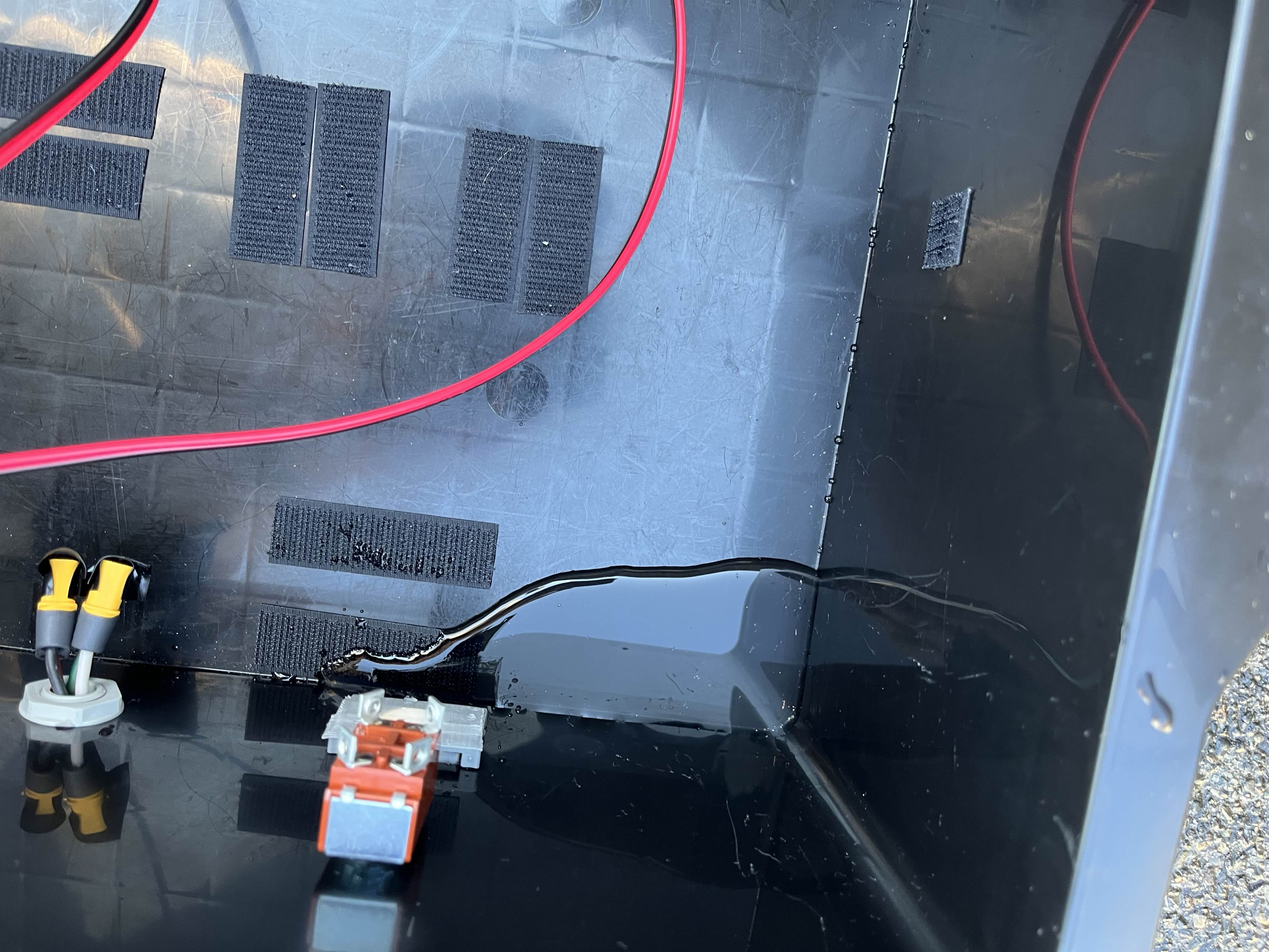
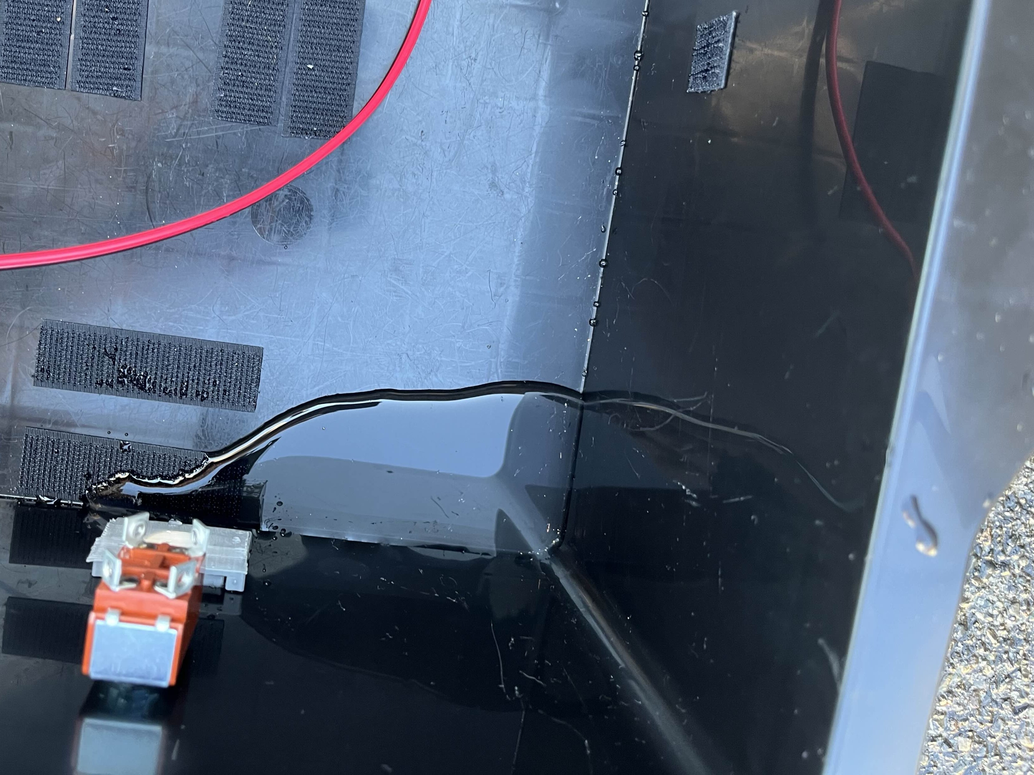
残り：図番号修正、追加実験について

diff --git a/index.html b/index.html
@@ -35,7 +35,7 @@
 
     <tr>
       <td>A01</td>
-      <td>2025.1.29</td>
+      <td>2025.2.11</td>
       <td>内野日々輝</td>
       <td></td>
       <td>初版</td>
@@ -131,24 +131,6 @@
           <li>空気清浄機の性能試験</li>
           <li>パッキンと作成したパーツによる防塵対策</li>
       </ol>
-      実験で使用した道具を以下に示す。
-      <ul>
-        <li>標準機</li>
-        <li>フィルター</li>
-        <li>サーキュレーター</li>
-        <li>箱</li>
-        <li>黒板消し</li>
-        <li>チョーク</li>
-        <li>3Dプリンターで作成したパーツ
-          <address>
-          <a href="防水防塵用パーツ.SLDASM" target="_self">パーツのデータ</a>
-          <a href="ver.2_1.SLDPRT" target="_self">ver.2_1.SLDPRT</a>
-          <a href="ver.2_2.SLDPRT" target="_self">ver.2_2.SLDPRT</a>
-        　</address>
-        </li>
-        <li>スポンジパッキン</li>
-        
-      </ul>
       <h3>4.1　防水性能の調査および防水対策</h3>
       <p>まず、標準機のボックスの防水性能を調査した。ボックス内部の基盤等を外し、ボックスのみの状態にした。(図1)</p>
       <p>ホースでボックス全体に水をかけ、水がどこから侵入してくるか確認した。その結果を図2に示す。</p>
@@ -164,7 +146,12 @@
        <video src="横穴対策なし.mp4" controls width="300"></video>
         <p>動画1　対策なしで水を流す様子</p>
       </div>
-    　<p>次に、穴からの水の侵入を防ぐ為に3dプリンタで作成したパーツを用いて、外から穴に向かって水をかけた。パーツを付けたボックスを図3に示す。なおパーツ中央に空いている穴は、エンコーダ等の配線が通る為の穴である。今回は実験のため、テープで穴を塞いだ。水を流した様子を図4に示す。これを確認すると、下から水が漏れていることが分かる。</p>
+      <p>3Dプリンターで穴をふさぐ為のパーツを作成した。２つのパーツを側面の穴に挟みこむ形で装着する。（図3）</p>
+      <div style="text-align:center">
+        <img src="パーツ.jpg" height="200" > <img src="パーツ２.jpg" height="200"><img src="パーツ(合わせた形).jpg" height="200">
+        <p>図3　作成したパーツ</p>
+      </div>
+      <p>パーツを装着して水をかけた。パーツを付けたボックスを図3に示す。なおパーツ中央に空いている穴は、エンコーダ等の配線が通る為の穴である。今回は実験のため、テープで穴を塞いだ。水を流した様子を図4に示す。これを確認すると、下から水が漏れていることが分かる。</p>
       <div style="text-align:center">
         <img src="パッキンなし.jpg" height="300">
         <p>図3　パーツを付けたボックス</p>
@@ -187,7 +174,6 @@
       <video src="空気清浄機あり.mp4" controls width="300"></video>
       <p>動画4　実験の様子(空気清浄機有り)</p>
       </div>
-
       <p>実験の結果を図6に示す。肉眼で確認できる程チョークの粉の量が減っていることが分かる。図7に実験後のフィルターの様子を示す。赤みがかっていて、空気清浄機に効果があることが分かる。</p>
       <div style="text-align:center">
       <p><img src="空気清浄機無し箱.jpg" height="300" title="空気清浄機無しの様子"><img src="空気清浄機有り箱.jpg" height="300" title="空気清浄機無しの様子"></p>
@@ -204,8 +190,7 @@
         <p>図　右：防塵対策なし　左：防塵対策あり</p> 
       </div>
       <p>図を見比べると、対策をしていないボックスにはチョークの粉が侵入しているが、防塵対策をしたボックスにはチョークの粉は侵入しておらず防塵効果があることが分かる。</p>
-      
-    </div>
+  </div>
 
   <div class="section">
       <h2>5. 結果の評価</h2>
